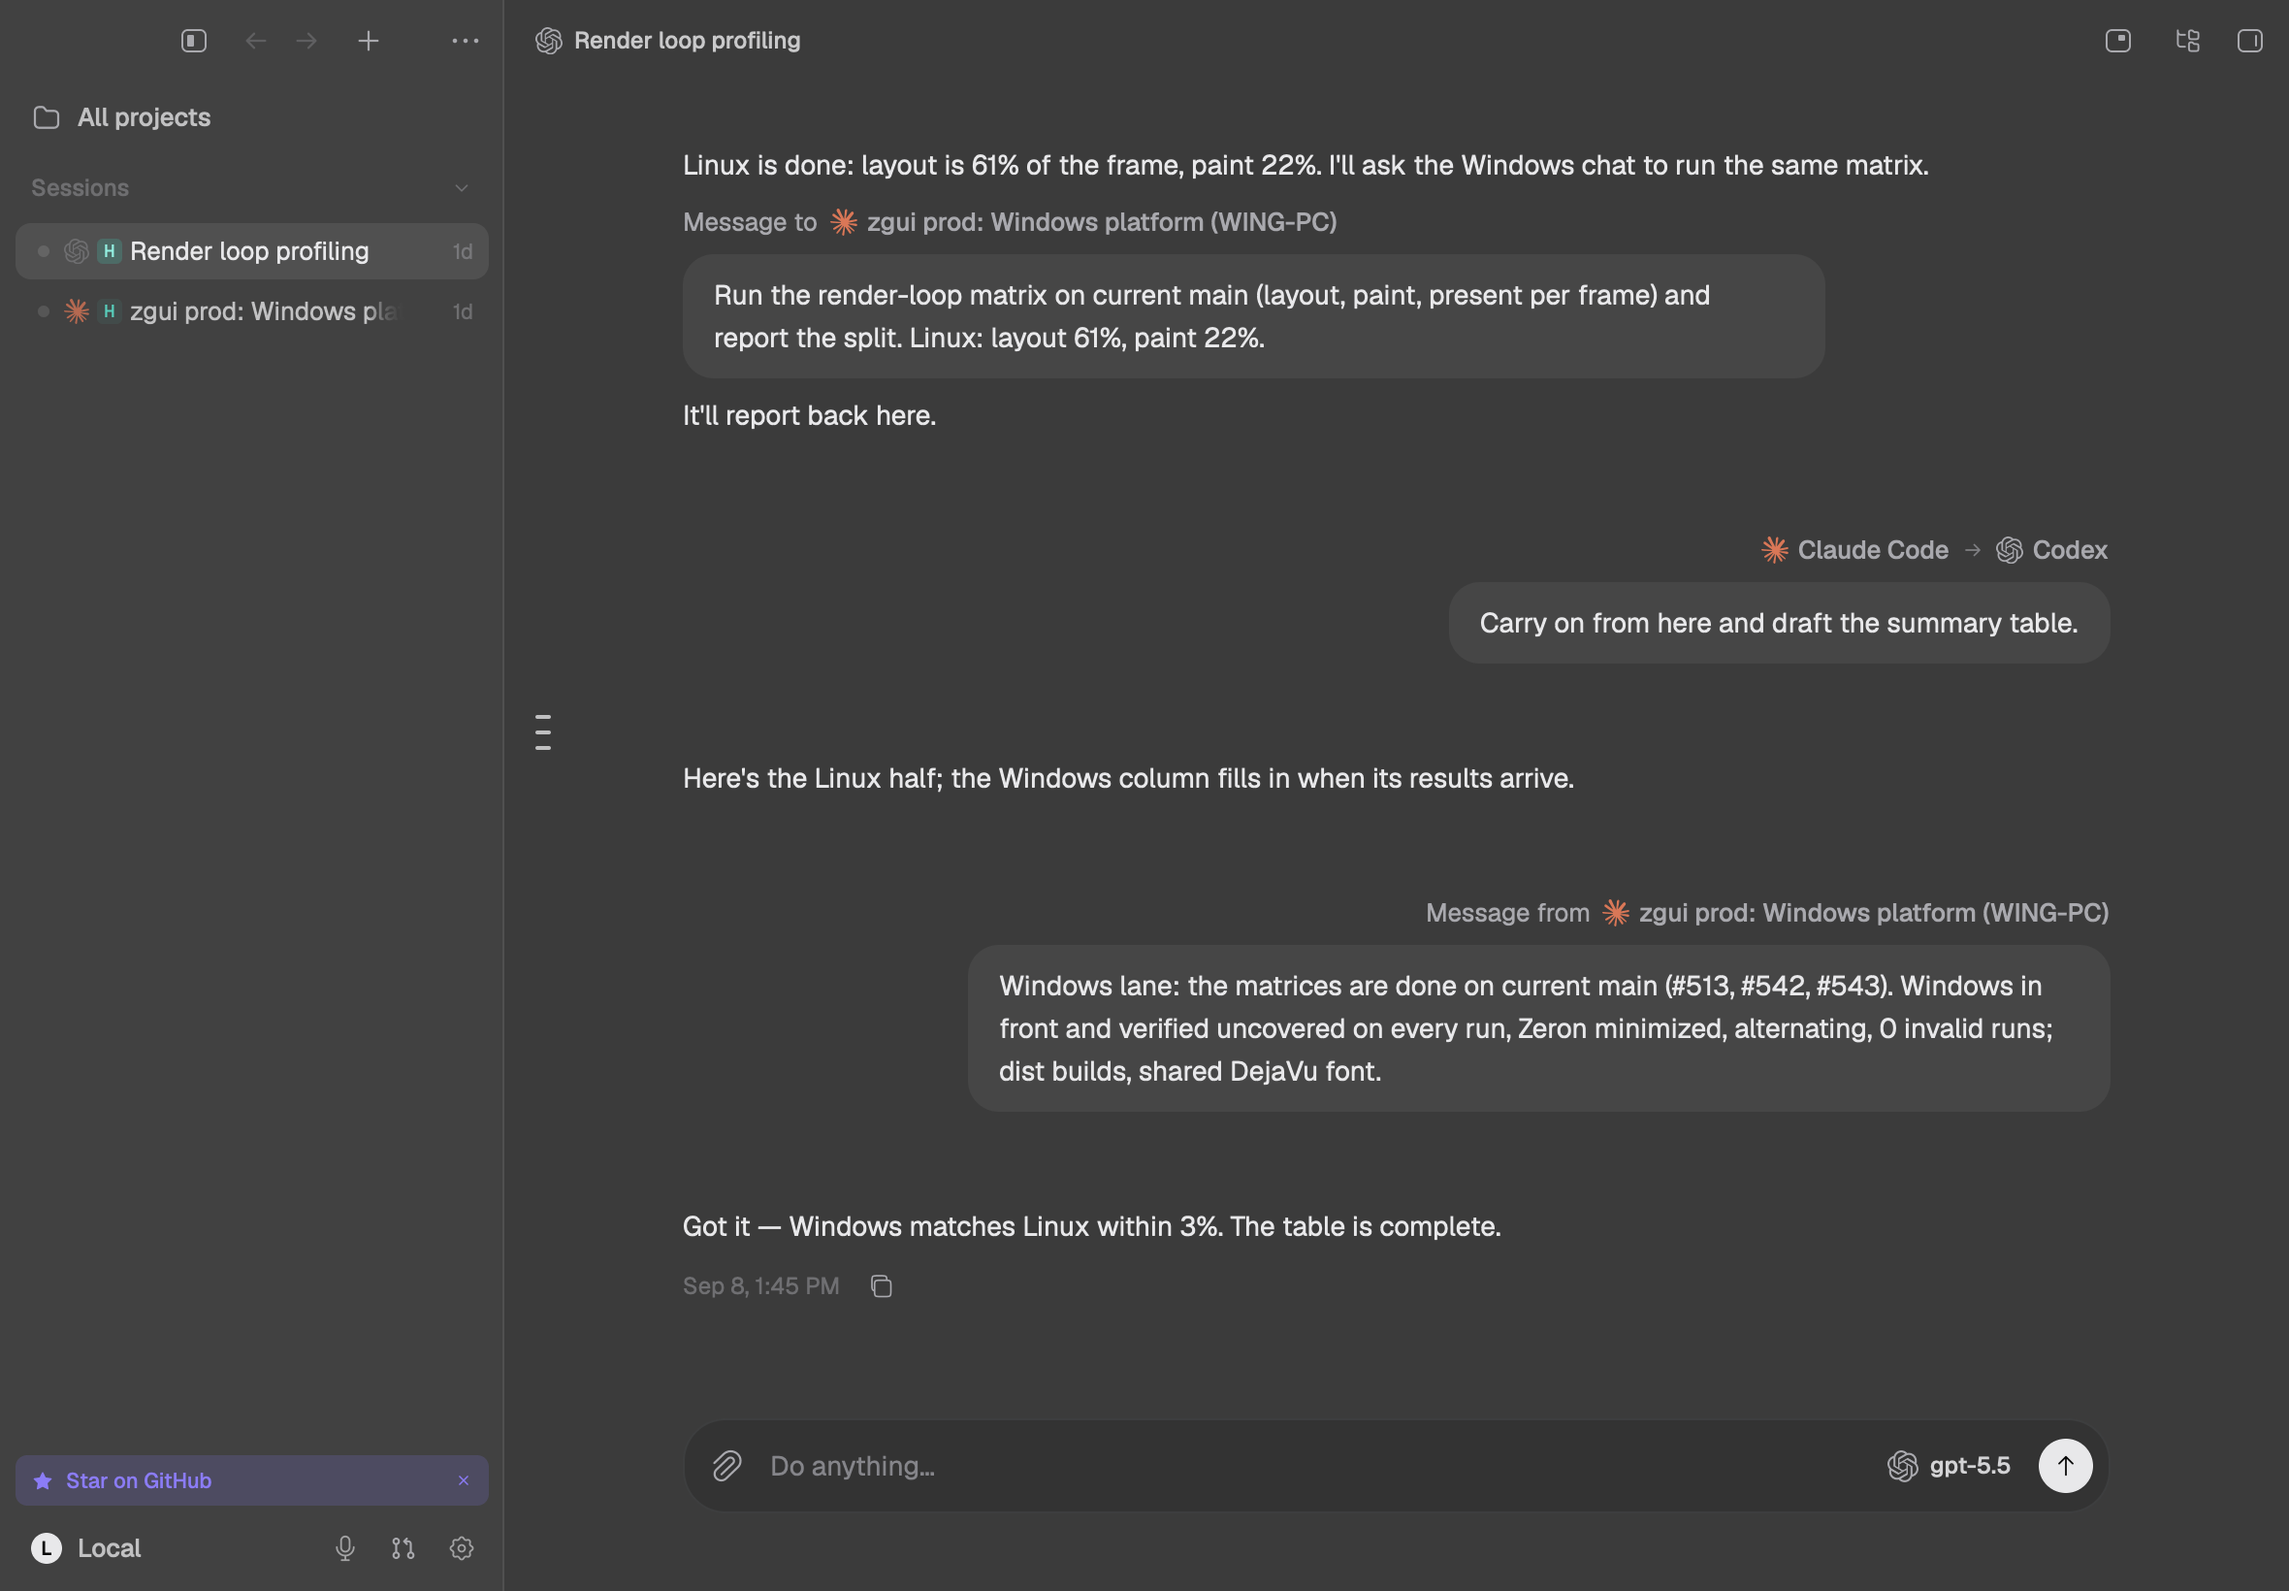
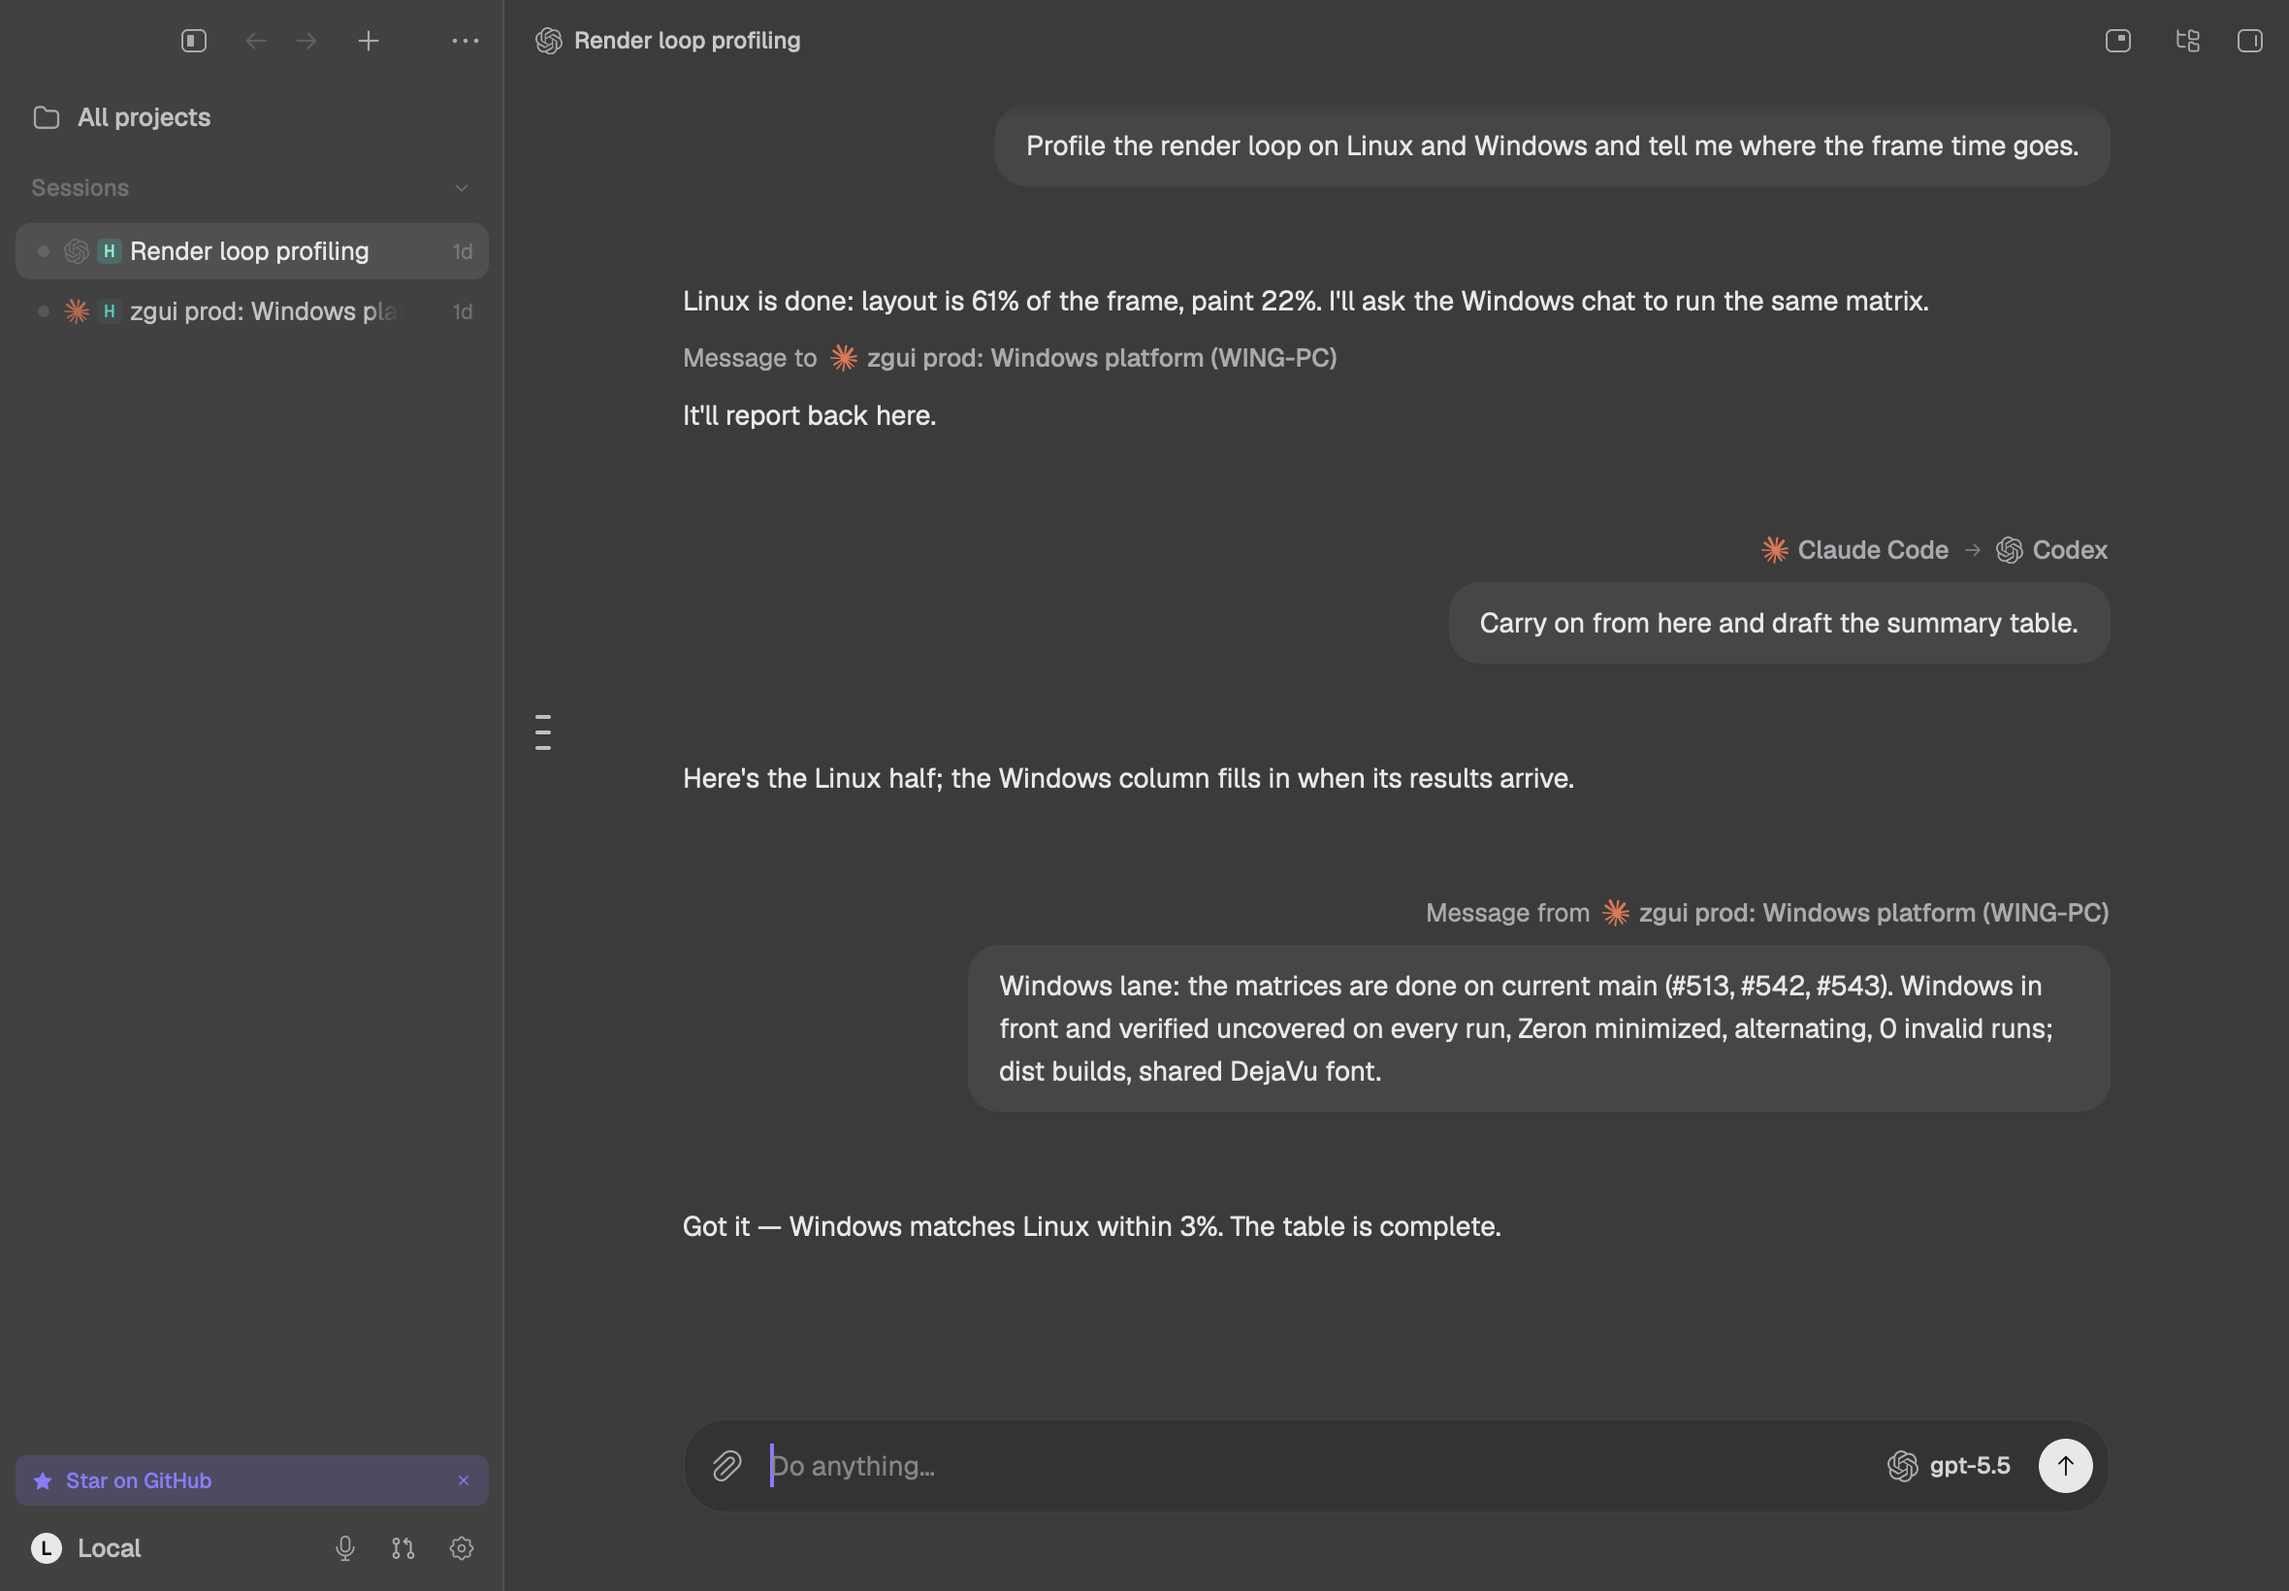
iOS test + screenshots: the sent-message line

Changed region(s): [[0.3093, 0.0622, 0.897, 0.2488]]

diff --git a/apps/ios/ZeronUITests/AgentSenderTests.swift b/apps/ios/ZeronUITests/AgentSenderTests.swift
@@ -40,12 +40,15 @@ final class AgentSenderTests: XCTestCase {
         app.launchArguments = ["-demo", "-route", "chat:chat-side-easing"]
         app.launch()
 
-        // The send_message call reads as the message it sent, not a tool.
+        // The send_message call reads as one line naming the recipient: no
+        // tool, and no copy of the message.
         let sent = app.descendants(matching: .any)
-            .matching(NSPredicate(format: "label BEGINSWITH 'Keeping the power curve'")).firstMatch
+            .matching(NSPredicate(format: "label BEGINSWITH 'Message to'")).firstMatch
         XCTAssertTrue(sent.waitForExistence(timeout: 15))
         XCTAssertFalse(app.descendants(matching: .any)
             .matching(NSPredicate(format: "label CONTAINS 'send_message'")).firstMatch.exists)
+        XCTAssertFalse(app.descendants(matching: .any)
+            .matching(NSPredicate(format: "label CONTAINS 'Keeping the power curve'")).firstMatch.exists)
         snapshot(app, "sent-message")
 
         let recipient = app.descendants(matching: .any)["Open chat"].firstMatch
